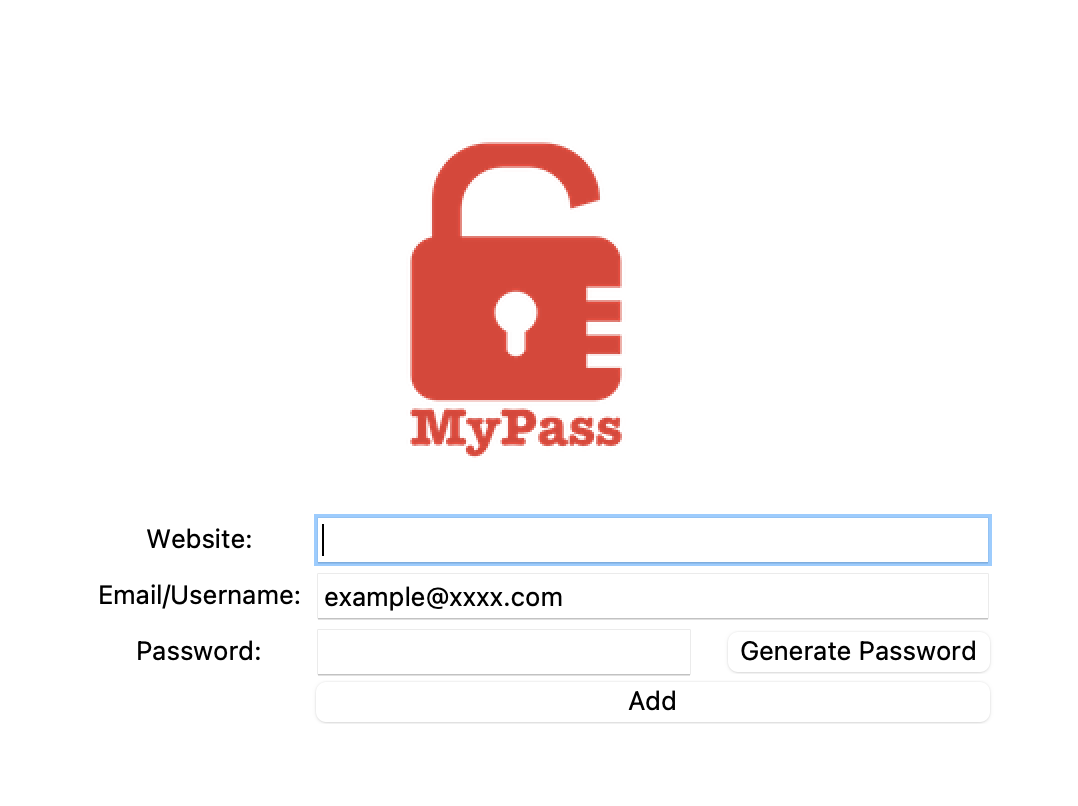
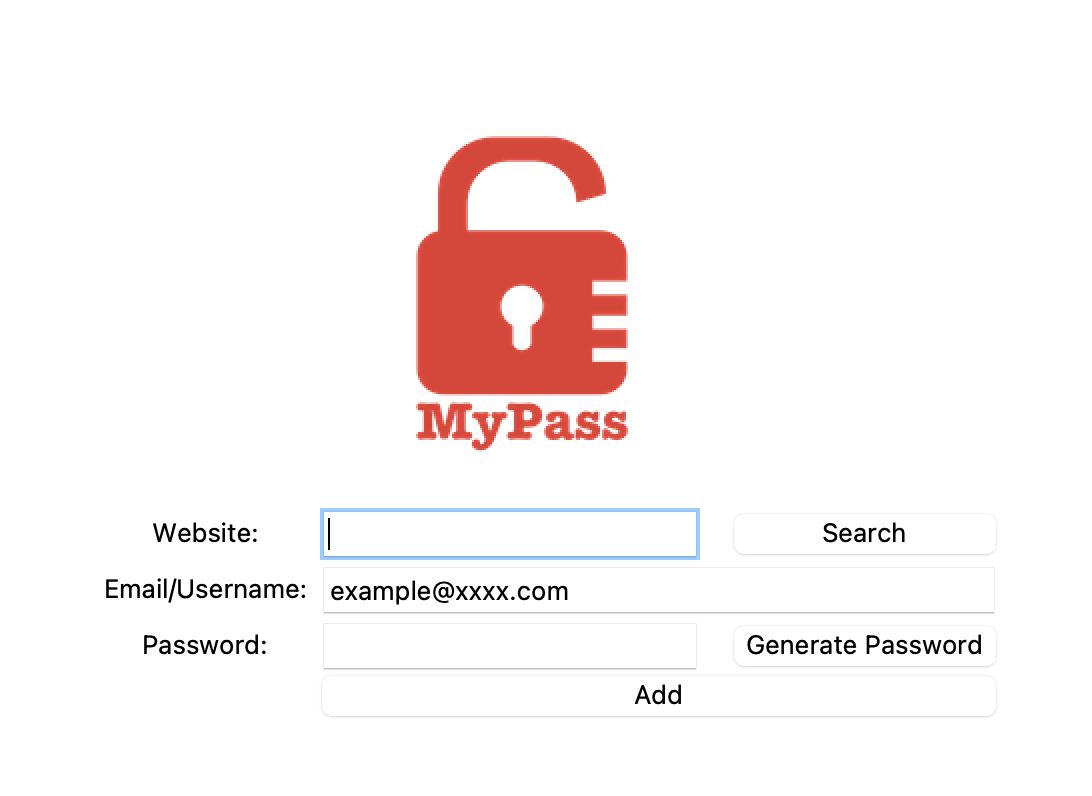
Update Day29-30 project

diff --git a/README.md b/README.md
@@ -1,7 +1,7 @@
 # 100 Python Coding Projects
 Based on the course 100 Days of Code by Dr. Angela Yu. Notes of the course can be found [here](https://www.notion.so/a73c7d0045944619aa08b1594cefedf4?v=8462b4251f94434784b6067fff6542d4).
 ### Intermediate level
-- Day 29: [Password Manager](https://github.com/qilinz/100-Python-Coding-Projects/blob/main/Intermediate/Day29-password-manager/main.py). Users can generate passwords and store passwords in a local file. Interface preview can be found [here](https://github.com/qilinz/100-Python-Coding-Projects/blob/main/Intermediate/Day29-password-manager/preview.png). (Tkinter, tkMessageBox, pyperclip)
+- Day 29-30: [Password Manager](https://github.com/qilinz/100-Python-Coding-Projects/blob/main/Intermediate/Day29-30-password-manager/main.py). Users can generate passwords and store passwords in a local file. Users can also search existing passwords by website name. Interface preview can be found [here](https://github.com/qilinz/100-Python-Coding-Projects/blob/main/Intermediate/Day29-30-password-manager/preview.png). (Tkinter, tkMessageBox, pyperclip, exception catching, working with JSON data)
 - Day 28: [Pomodoro Timer](https://github.com/qilinz/100-Python-Coding-Projects/blob/main/Intermediate/Day28-pomodoro/main.py). A Pomodoro timer follows the Pomodoro Technique. Interface preview can be found [here](https://github.com/qilinz/100-Python-Coding-Projects/blob/main/Intermediate/Day28-pomodoro/preview.png). (Tkinter module).
 - Day 27: [Miles to Kms Converter](https://github.com/qilinz/100-Python-Coding-Projects/blob/main/Intermediate/Day27-km-calculator/main.py). Users can covert miles to kms. Tkinter widget demo can be found [here](https://github.com/qilinz/100-Python-Coding-Projects/blob/main/Intermediate/Day27-km-calculator/tkinter-widget-demo.py). (Tkinter module, function arguments)
 - Day 26: [NATO Phonetic](https://github.com/qilinz/100-Python-Coding-Projects/blob/main/Intermediate/Day26-nato-phonetic/main.py). User's input will be transformed to NATO phonetic words. (List/ dictionary Comprehension)
